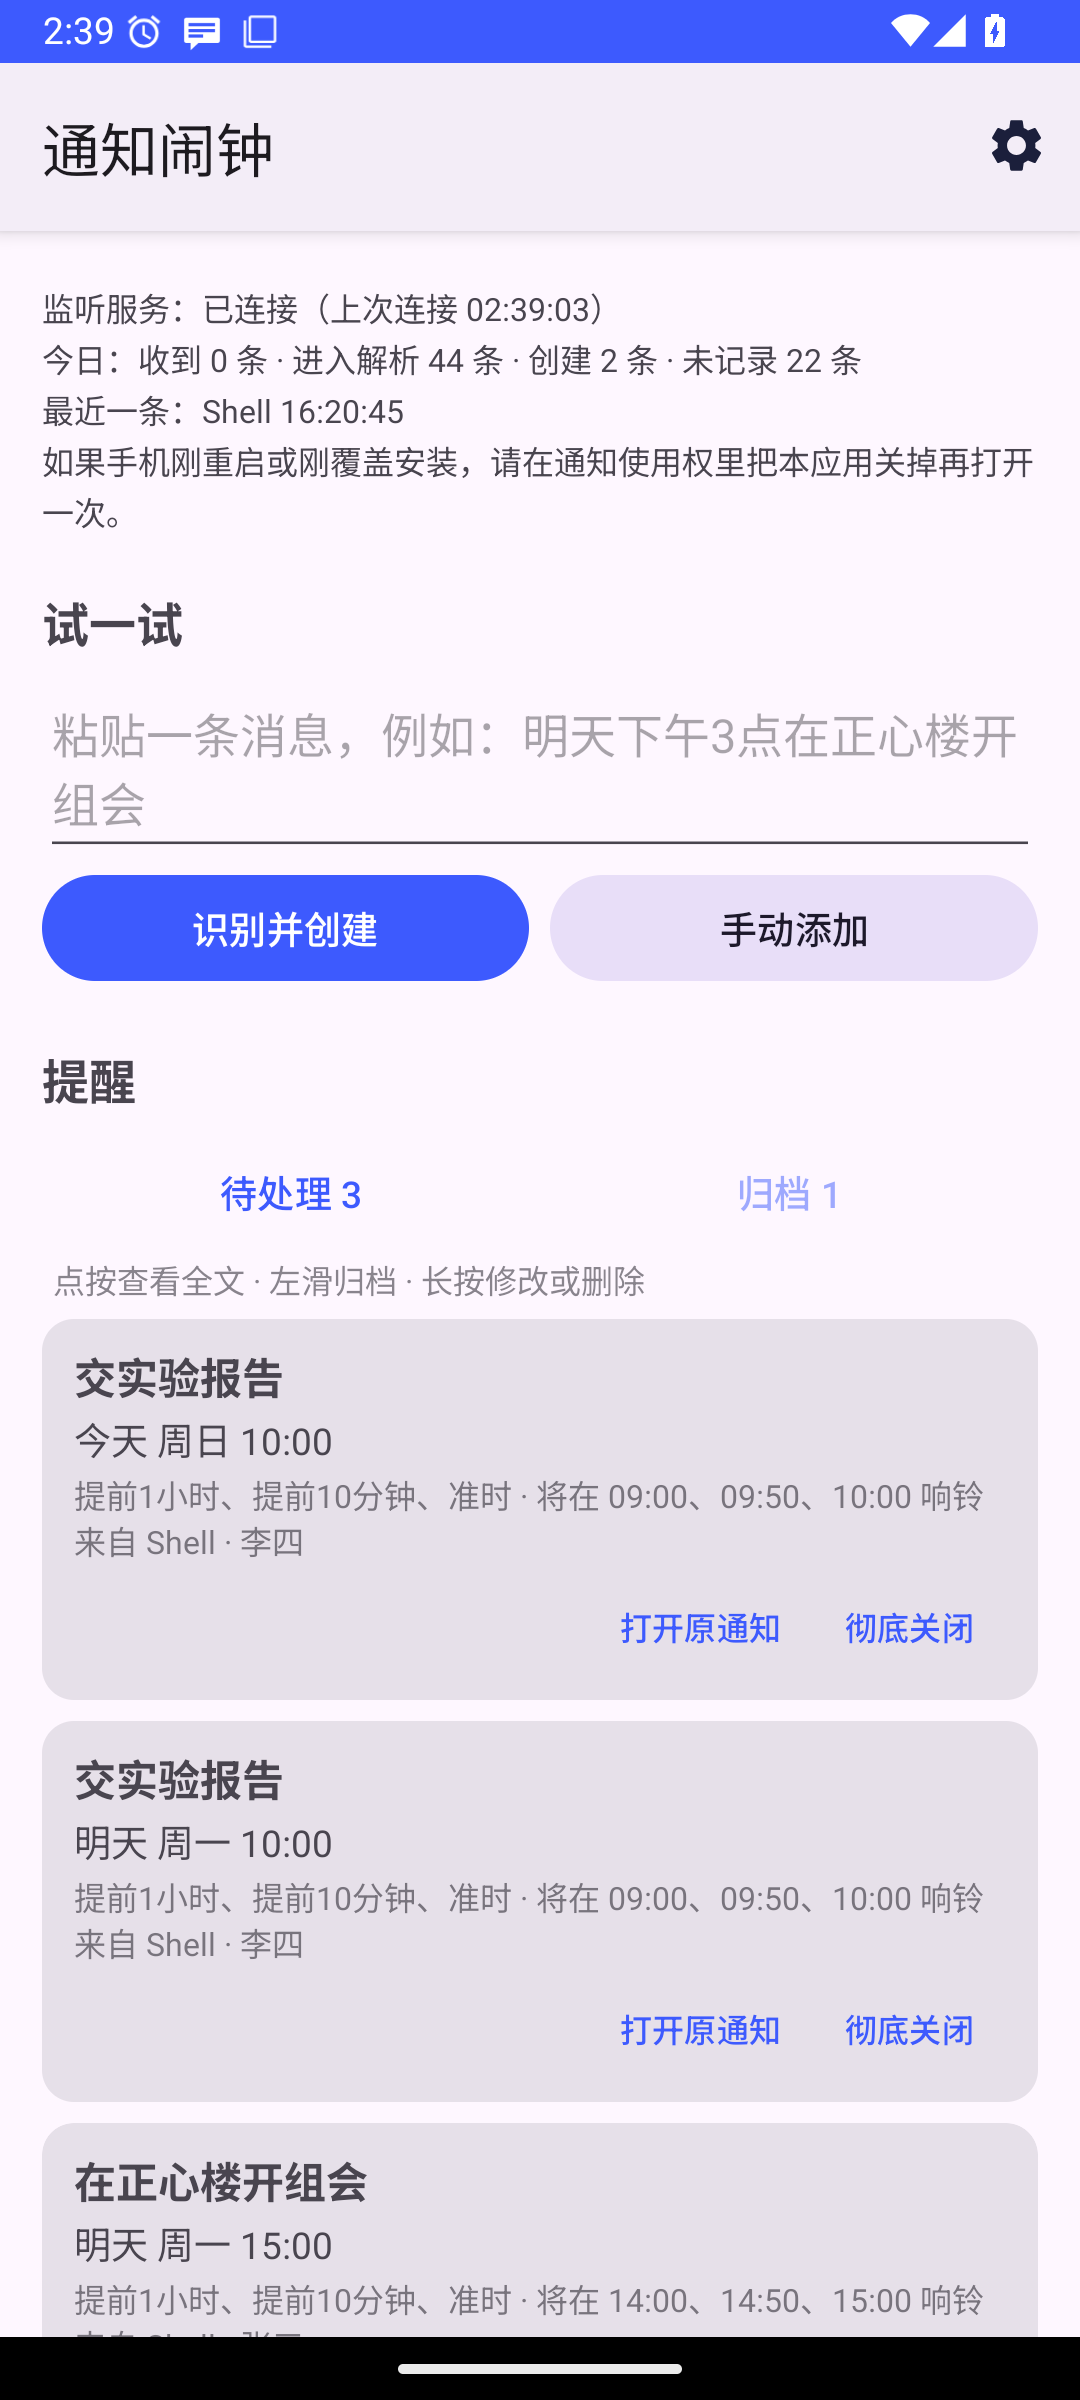
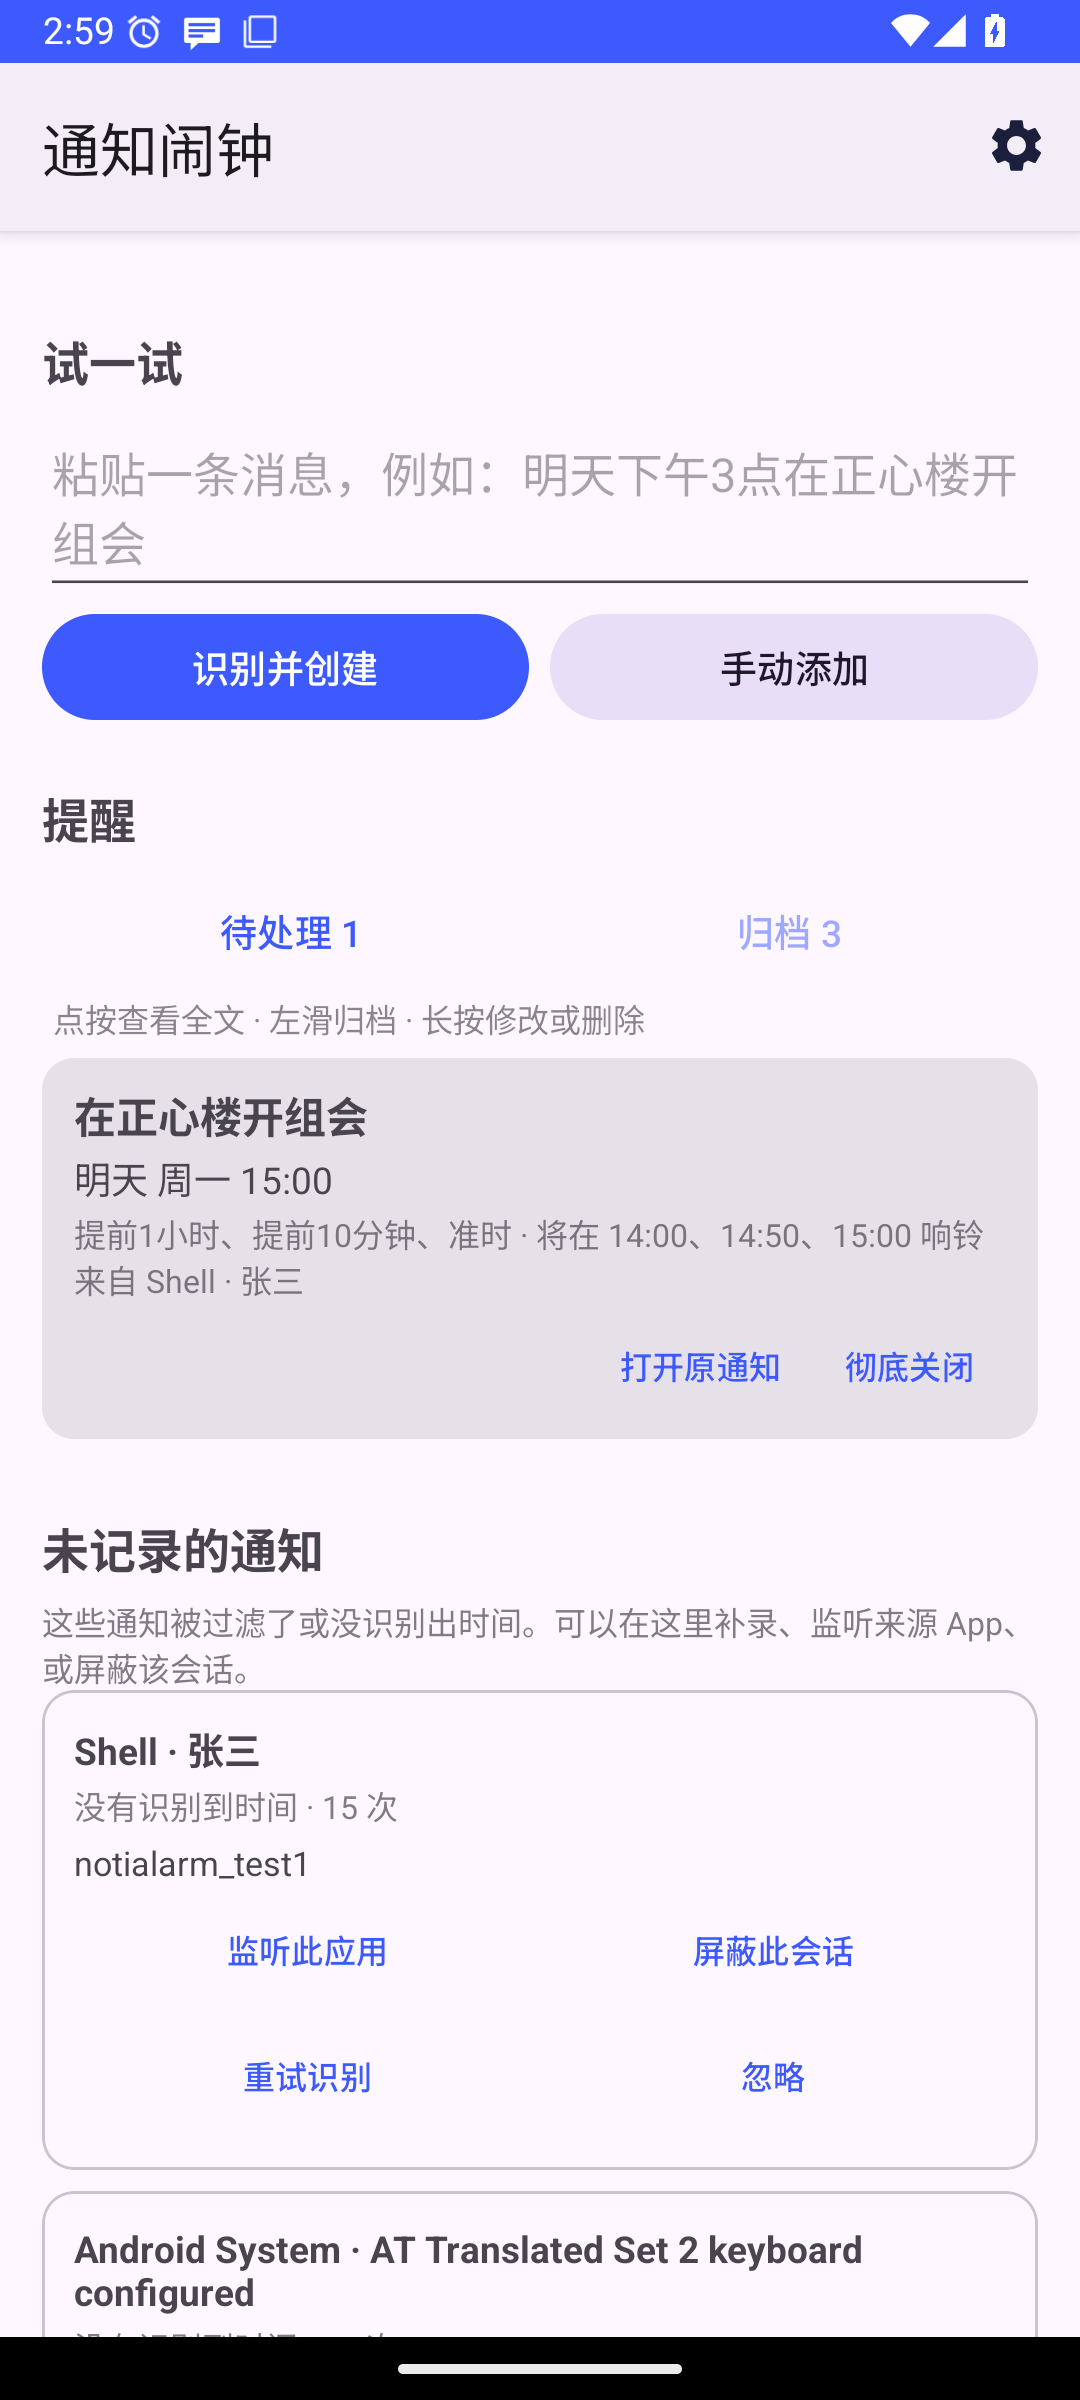
v0.2.3: 监听诊断从首页移到设置页，首页从试一试开始

diff --git a/app/src/main/java/cn/notialarm/ui/MainActivity.kt b/app/src/main/java/cn/notialarm/ui/MainActivity.kt
@@ -24,7 +24,6 @@ import cn.notialarm.Reminders
 import cn.notialarm.SourceLauncher
 import cn.notialarm.alarm.AlarmScheduler
 import cn.notialarm.data.ActivityLog
-import cn.notialarm.data.Diag
 import cn.notialarm.data.DroppedStore
 import cn.notialarm.data.Incoming
 import cn.notialarm.data.Prefs
@@ -41,7 +40,6 @@ class MainActivity : AppCompatActivity() {
     private lateinit var emptyText: TextView
     private lateinit var emptyDropped: TextView
     private lateinit var logText: TextView
-    private lateinit var tvDiag: TextView
     private lateinit var tvPermWarning: TextView
     private lateinit var tvListHint: TextView
     private lateinit var btnActive: Button
@@ -60,7 +58,6 @@ class MainActivity : AppCompatActivity() {
         emptyText = findViewById(R.id.emptyText)
         emptyDropped = findViewById(R.id.emptyDropped)
         logText = findViewById(R.id.logText)
-        tvDiag = findViewById(R.id.tvDiag)
         tvPermWarning = findViewById(R.id.tvPermWarning)
         tvListHint = findViewById(R.id.tvListHint)
         btnActive = findViewById(R.id.btnActive)
@@ -121,13 +118,11 @@ class MainActivity : AppCompatActivity() {
         Reminders.onChange = {
             renderReminders()
             renderLog()
-            renderDiag()
             renderDropped()
             renderPermWarning()
         }
         NotifyListener.onStateChanged = {
             renderPermWarning()
-            renderDiag()
         }
         // 权限开着但服务没连上：自动重连一次
         if (Permissions.listenerGranted(this) && !NotifyListener.connected) NotifyListener.rebind(this)
@@ -136,7 +131,6 @@ class MainActivity : AppCompatActivity() {
         renderPermWarning()
         renderReminders()
         renderLog()
-        renderDiag()
         renderDropped()
     }
 
@@ -378,10 +372,6 @@ class MainActivity : AppCompatActivity() {
             }
             droppedContainer.addView(v)
         }
-    }
-
-    private fun renderDiag() {
-        tvDiag.text = Diag.summary(this, NotifyListener.connected)
     }
 
     private fun renderLog() {

diff --git a/README.md b/README.md
@@ -3,6 +3,11 @@
 监听微信、QQ、哈工大 APP 等任意 App 的通知，识别出里面的时间，自动创建提醒：
 到点前按你设定的提前量（比如 60、10、0 分钟）响铃、振动、弹窗。
 
+## 0.2.3 更新
+
+- 首页顶部的“监听诊断”移到设置页“权限”区下方，首页从“试一试”开始，不再被几行统计占住。
+- 主页只在通知使用权缺失或监听服务掉线时显示一行提示，点它直接进设置。
+
 ## 0.2.2 更新
 
 - 响铃页删掉两段说明文字，标题缩小，正文能多看到几行；延后选项不再显示“1 小时”。
@@ -83,7 +88,7 @@
 
 ## 通知漏记了怎么办
 
-首页“监听诊断”会显示今天收到多少条通知、进入解析多少条、创建多少条、未记录多少条。
+设置页顶部“监听诊断”会显示今天收到多少条通知、进入解析多少条、创建多少条、未记录多少条。
 如果有 App 的通知没被记录，会出现在“未记录的通知”里，并写明原因，可以直接：
 
 - **监听此应用**：把来源 App 加入监听列表；
